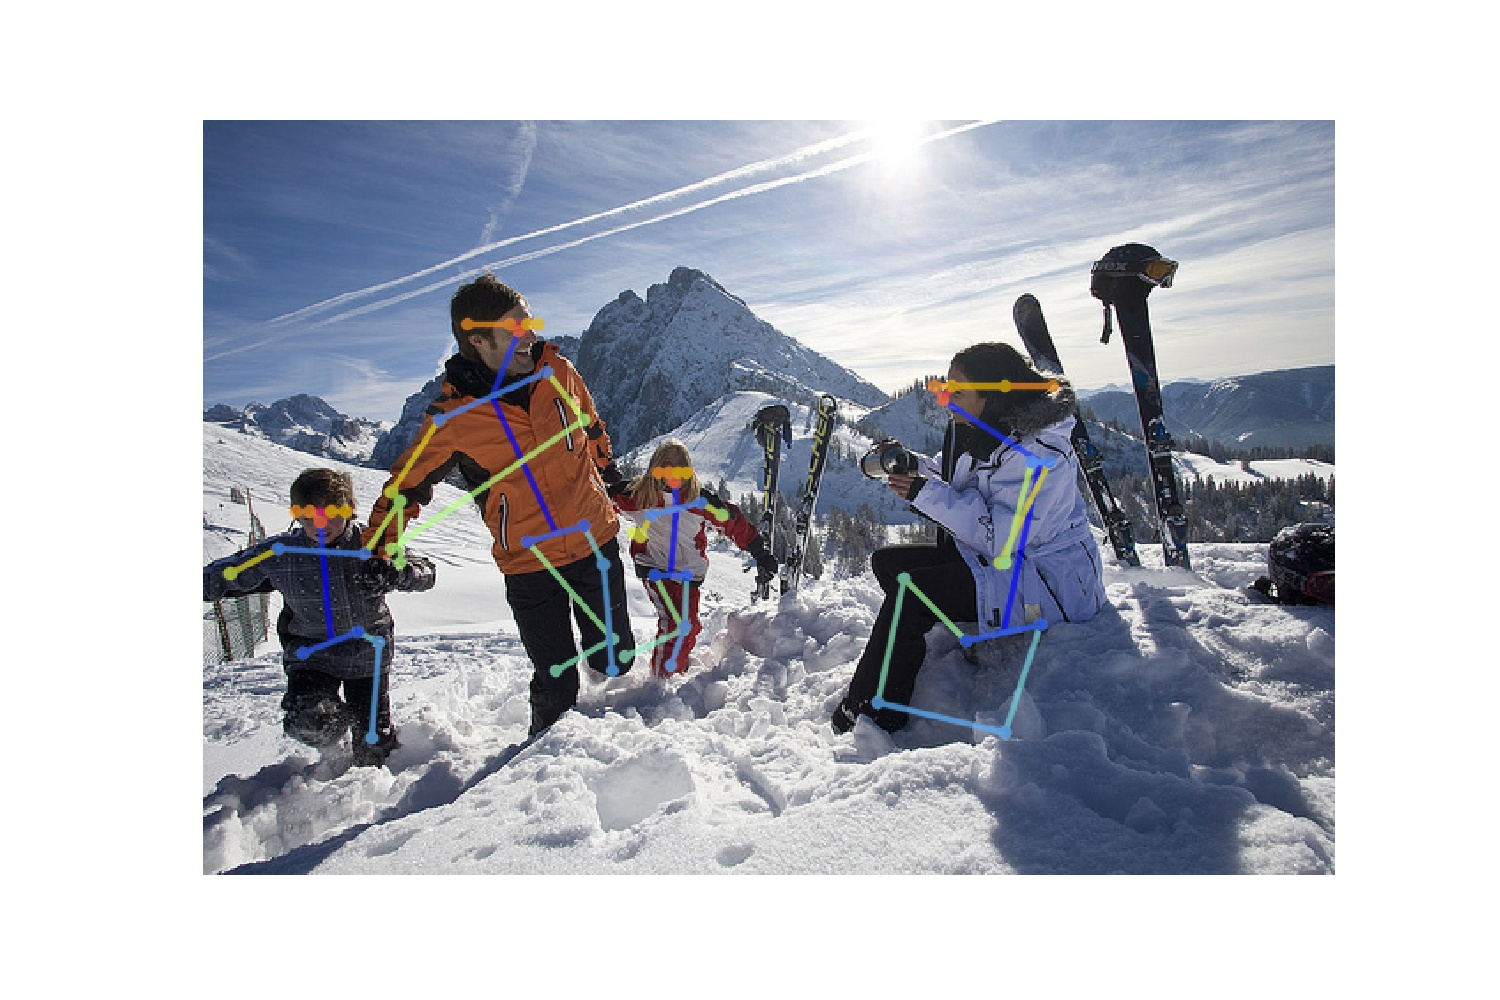
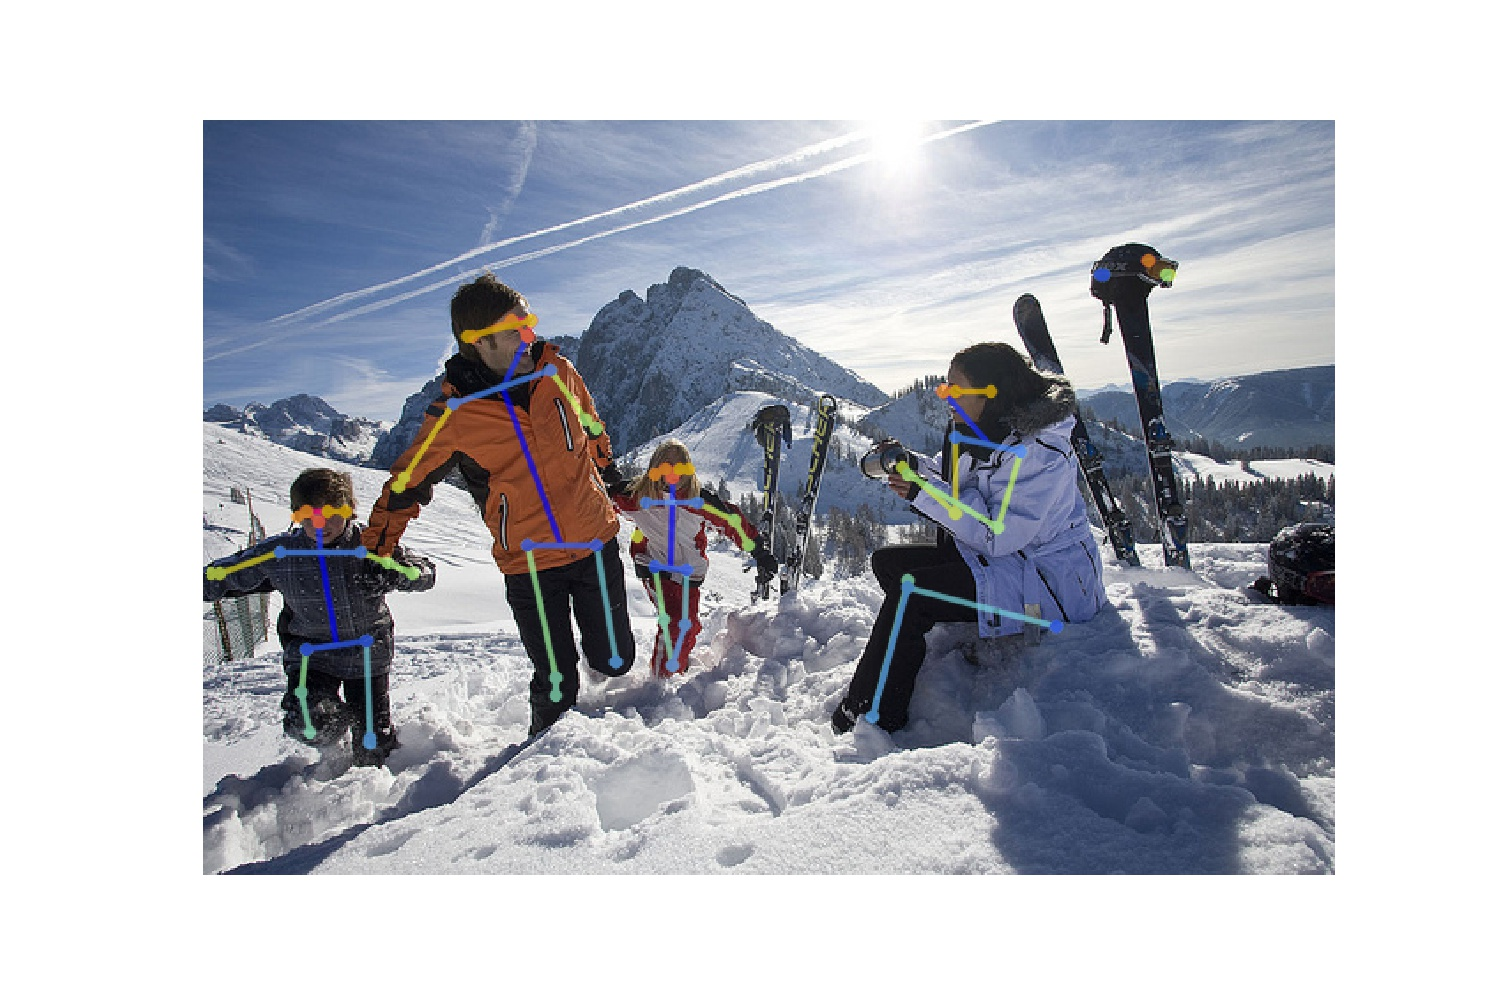
update readme

diff --git a/README.md b/README.md
@@ -25,7 +25,7 @@ mask accuracy looks better than above.
 
 ## keypoint
 
-!! I just trained 20000 iter, so result is bad.
+120000 iter trained
 
 ![](imgs/key.jpg)
 
